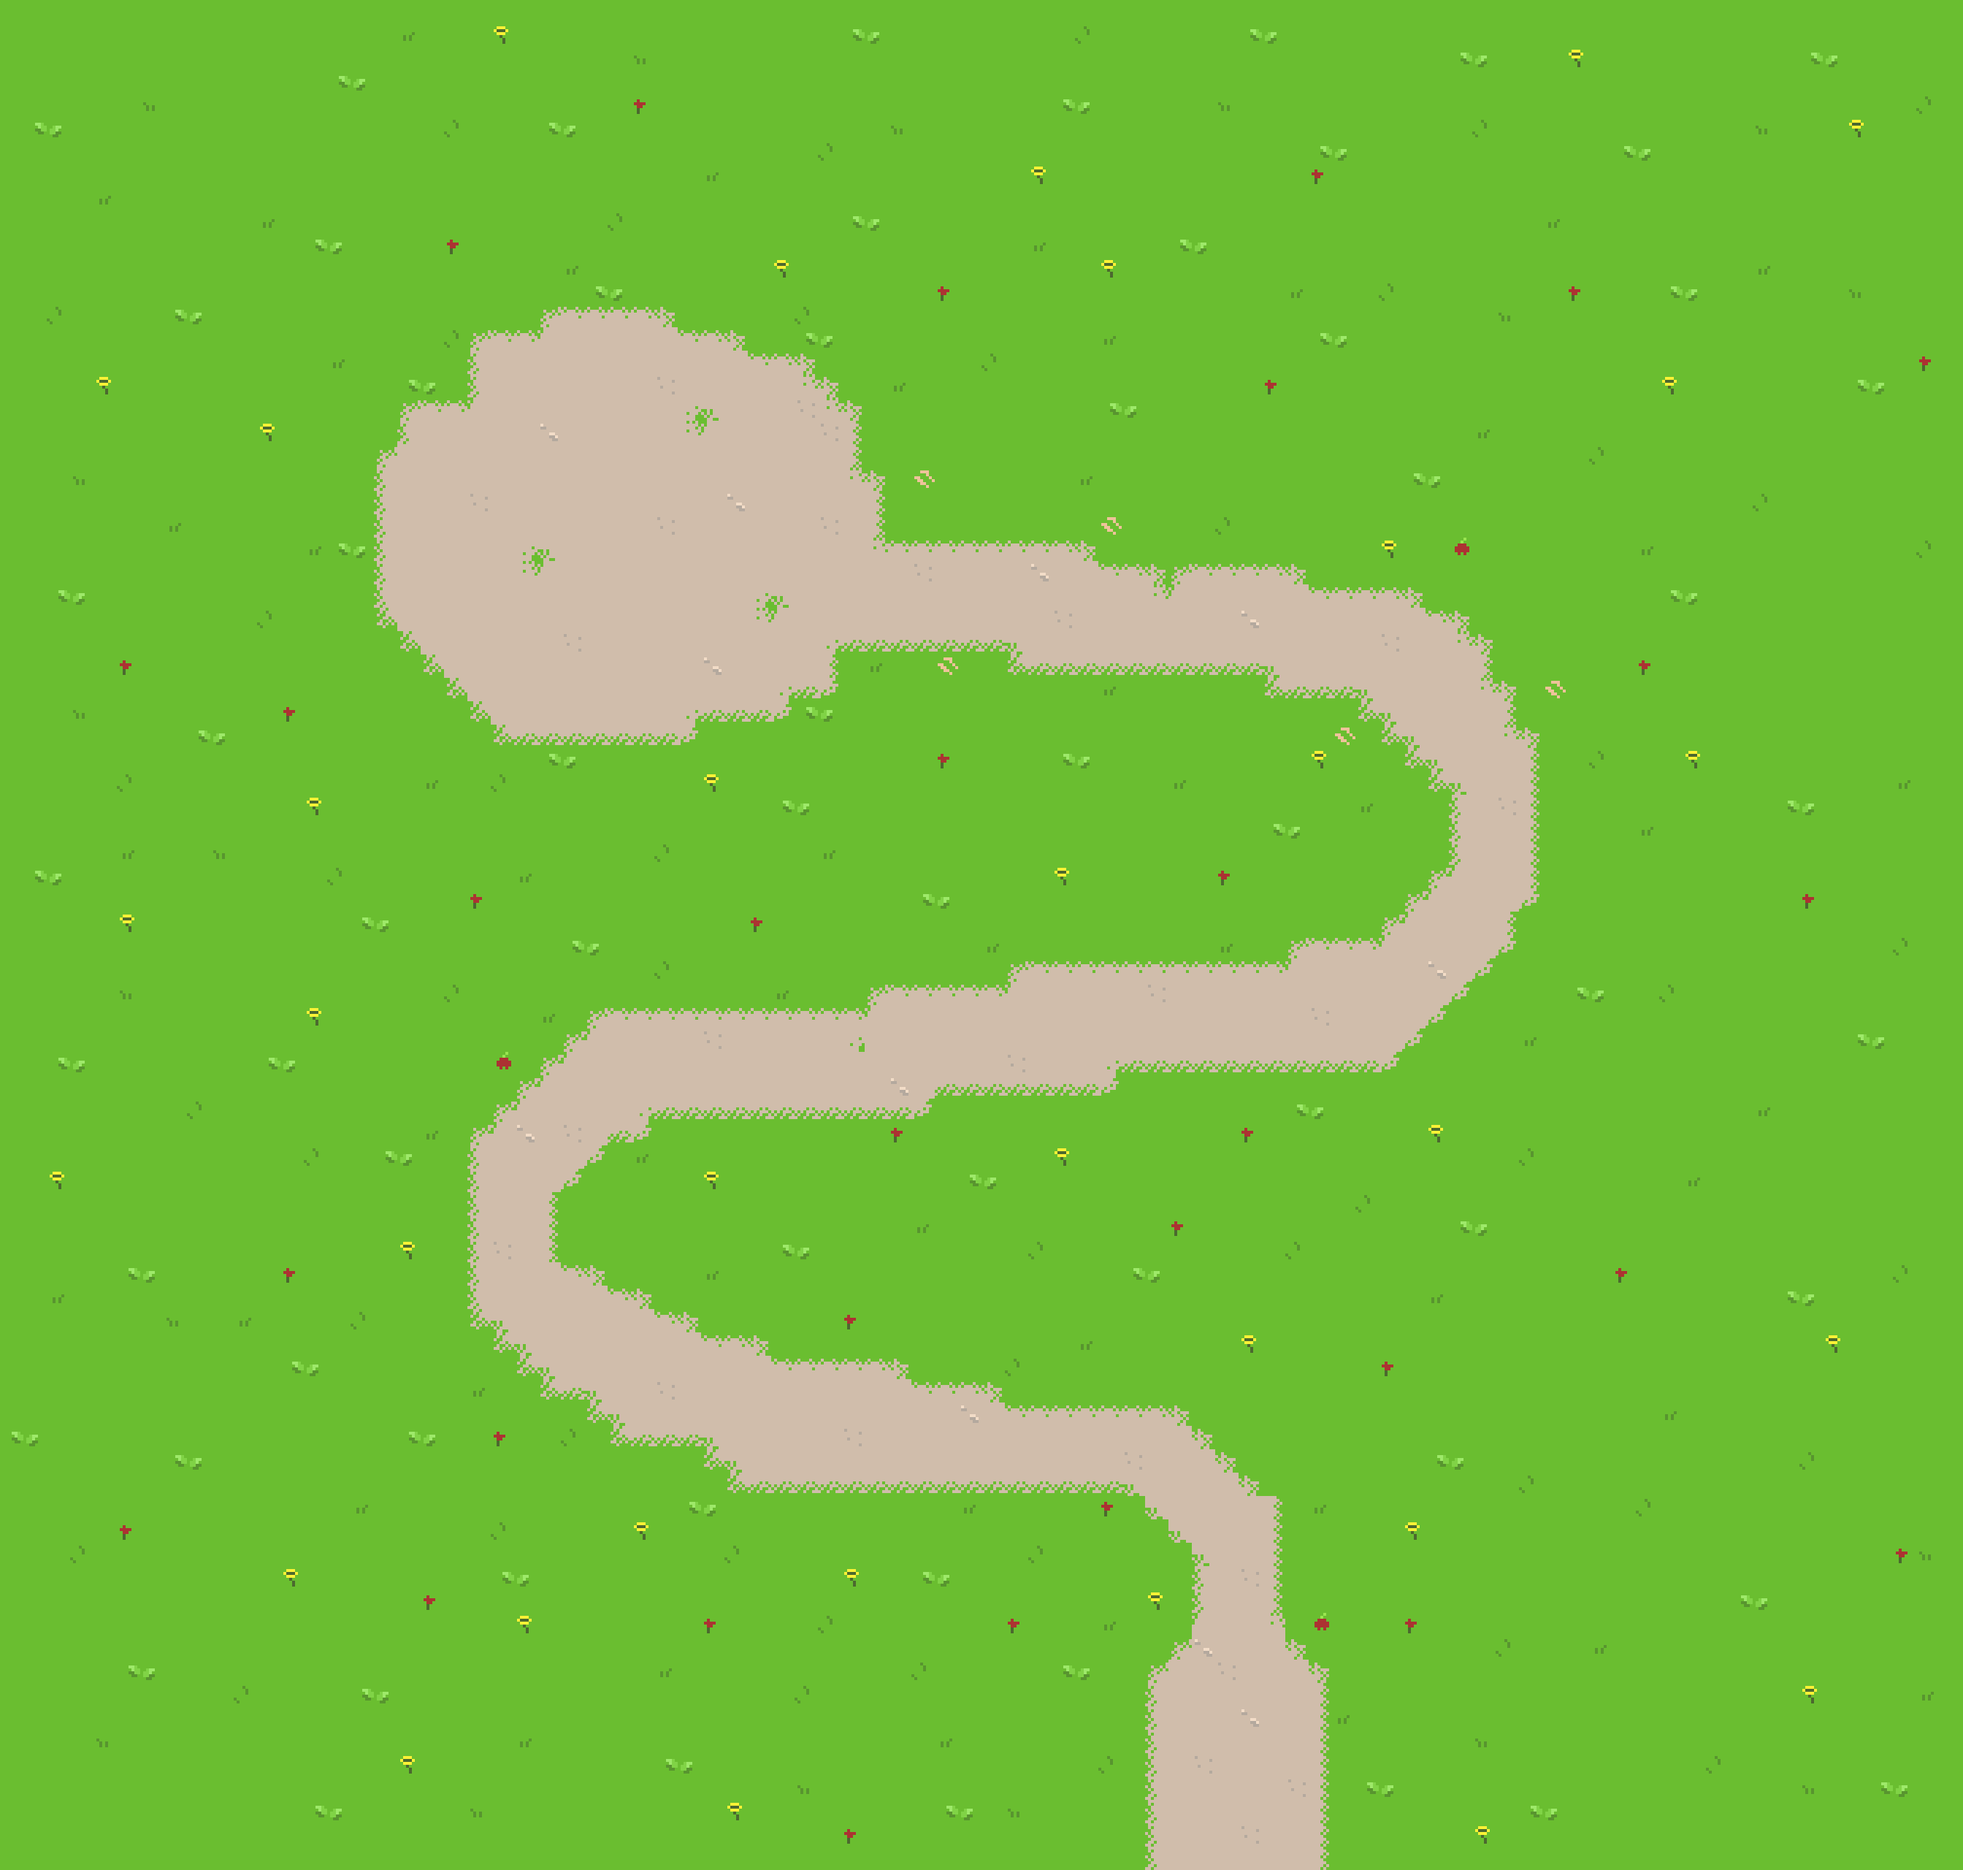
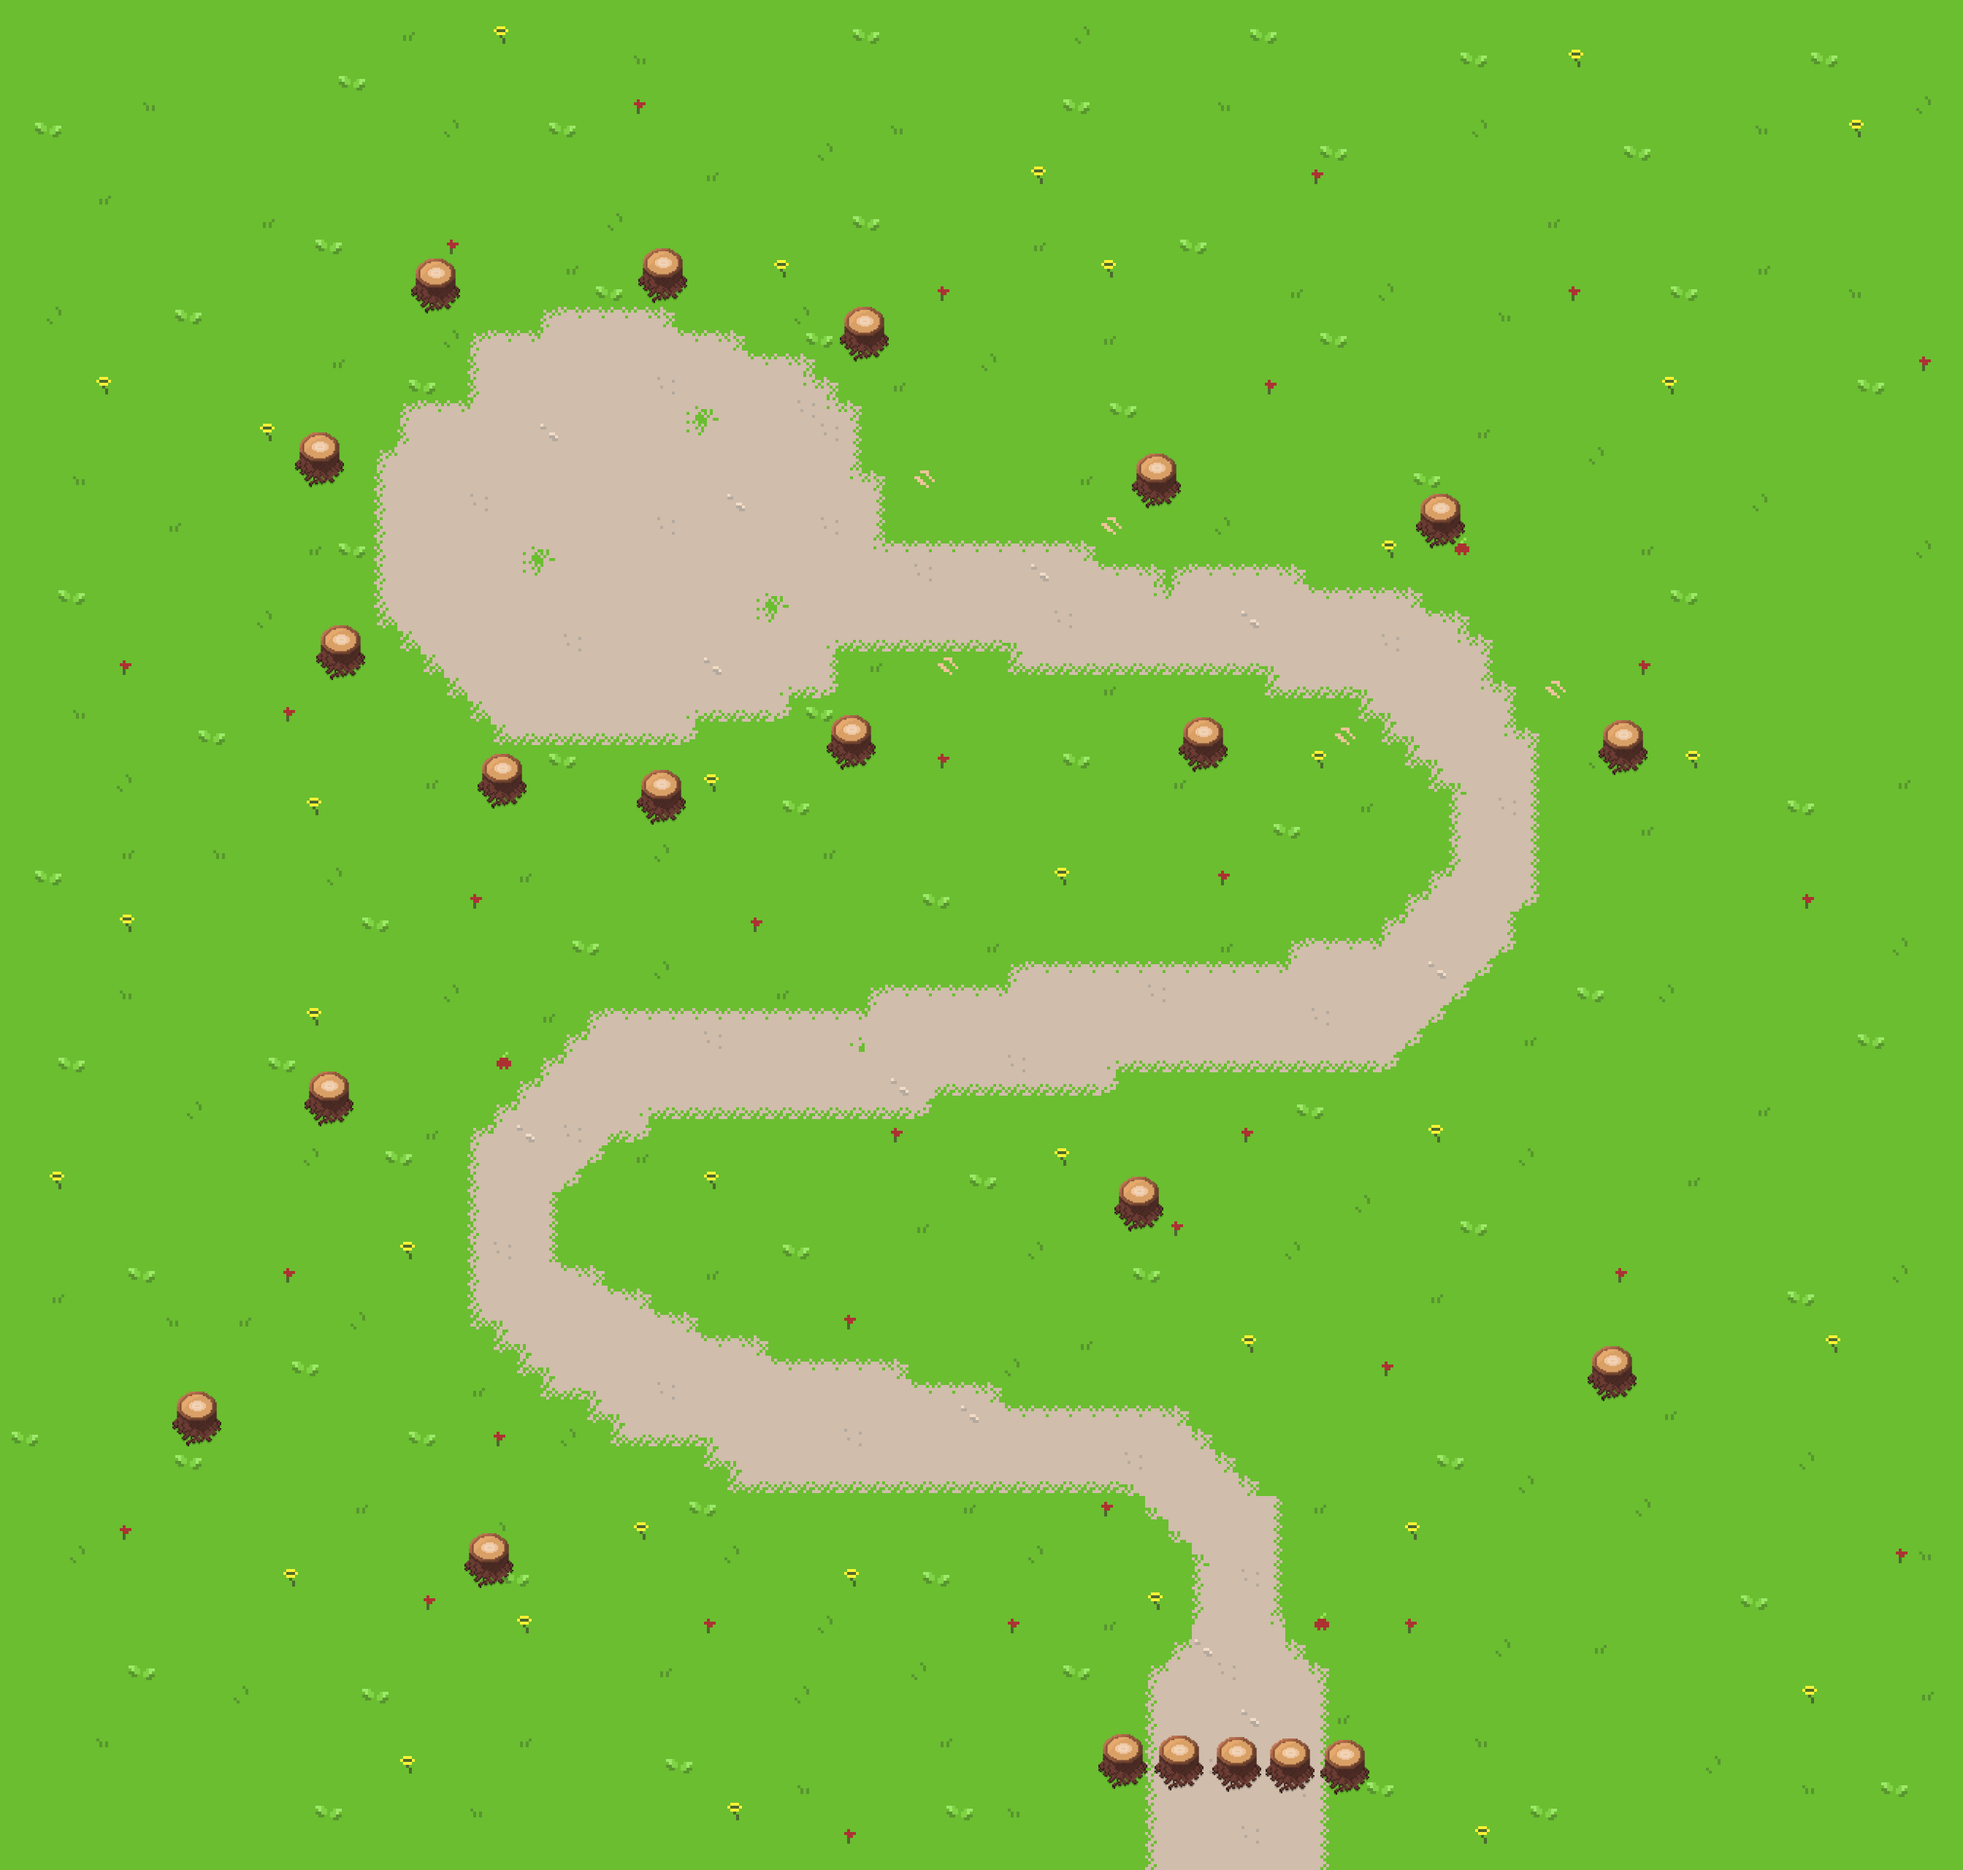
implemented more test trees

diff --git a/src/Game/States/StateMaster.cpp b/src/Game/States/StateMaster.cpp
@@ -204,32 +204,39 @@ void StateMaster::initAreas() {
     // entities2.push_back(structure);
 
     for(int i = 0; i < 10; i ++) {
-        Structure* tree = new Structure("spruce", "images/entities/inmovable/pine_tree.png", 1370 + i * 100, 420 + ofRandom(-100, 100), 1);
+        Structure* tree = new Structure("spruce", "images/entities/inmovable/pine_tree.png", 1370 + i * 100, 420 + ofRandom(-50, 50), 1);
         tree->getHitBox().setWidth(25);
         tree->getHitBox().setHeight(170);
         tree->getHitBox().setRenderWidth(80);
         tree->getHitBox().setRenderHeight(170);
         tempEntityList.push_back(tree);
 
-        tree = new Structure("cutted tree", "images/entities/inmovable/cutted_tree.png", 1600 + i * 100, 1716 + ofRandom(-100, 100), 1);
-        tree->getHitBox().setWidth(50);
-        tree->getHitBox().setHeight(100);
-        tree->getHitBox().setRenderWidth(67);
-        tree->getHitBox().setRenderHeight(100);
+        tree = new Structure("spruce", "images/entities/inmovable/pine_tree.png", 1370 + i * 100, 600 + ofRandom(-50, 50), 1);
+        tree->getHitBox().setWidth(25);
+        tree->getHitBox().setHeight(170);
+        tree->getHitBox().setRenderWidth(80);
+        tree->getHitBox().setRenderHeight(170);
         tempEntityList.push_back(tree);
 
-        tree = new Structure("oak", "images/entities/inmovable/tree.png", 1600 + i * 100, 1716 + ofRandom(-200, 200), 1);
+        tree = new Structure("oak", "images/entities/inmovable/tree.png", 1170 + i * 100, 1716 + ofRandom(-100, 100), 1);
         tree->getHitBox().setWidth(40);
         tree->getHitBox().setHeight(170);
         tree->getHitBox().setRenderWidth(170);
         tree->getHitBox().setRenderHeight(170);
         tempEntityList.push_back(tree);
 
-        tree = new Structure("cutted tree", "images/entities/inmovable/cutted_tree.png", 1600 + i * 100, 1716 + ofRandom(-200, 200), 1);
-        tree->getHitBox().setWidth(50);
-        tree->getHitBox().setHeight(100);
-        tree->getHitBox().setRenderWidth(67);
-        tree->getHitBox().setRenderHeight(100);
+        tree = new Structure("oak", "images/entities/inmovable/tree.png", 1170 + i * 100, 1580 + ofRandom(-100, 100), 1);
+        tree->getHitBox().setWidth(40);
+        tree->getHitBox().setHeight(170);
+        tree->getHitBox().setRenderWidth(170);
+        tree->getHitBox().setRenderHeight(170);
+        tempEntityList.push_back(tree);
+
+        tree = new Structure("oak", "images/entities/inmovable/tree.png", 540 + i * 100, 1160 + ofRandom(-100, 100), 1);
+        tree->getHitBox().setWidth(40);
+        tree->getHitBox().setHeight(170);
+        tree->getHitBox().setRenderWidth(170);
+        tree->getHitBox().setRenderHeight(170);
         tempEntityList.push_back(tree);
     }
 
